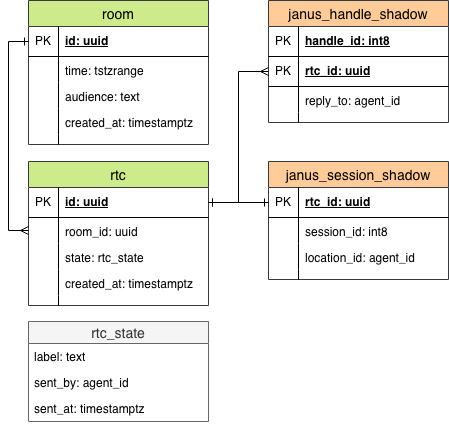
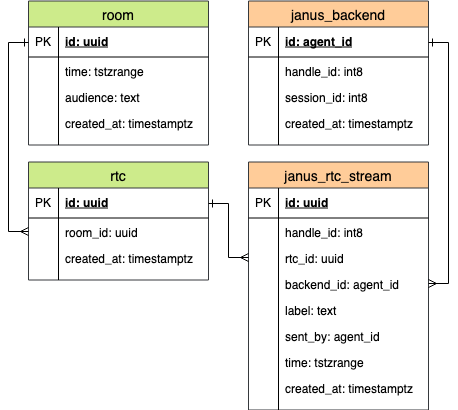
Update schema. Add rtc.connect.

Changed region(s): [[0.0, 0.0, 1.0, 1.0], [0.4989, 0.6146, 0.5612, 0.6439], [0.4365, 0.9659, 0.4677, 0.9951]]

diff --git a/docs/src/api.rtc_signal.create.md b/docs/src/api.rtc_signal.create.md
@@ -2,8 +2,6 @@
 
 Create a signaling message: WebRTC offer or ice candidate.
 
-*NOTE: It is required that agent call **rtc.create** or **rtc.read** method before sending any signal messages.*
-
 *NOTE: All media segments of the **listener**'s sdp composing an **offer** must contain a **recvonly** attribute, when at least one media segment of the **publisher**'s sdp must contain a **sendonly** or a **sendrecv** attribute.*
 
 **Request**
@@ -32,8 +30,8 @@ correlation_data | string | _required_ | The same value will be in a response
 
 Name              | Type   | Default    | Description
 ----------------- | ------ | ---------- | ------------------
-rtc_id            | string | _required_ | A real-time connection identifier through message has to be sent
-jsep              | object | _required_ | **Offer** or or **ice candidate** generated by RTCPeerConnection
+handle_id         | string | _required_ | A real-time connection handle identifier
+jsep              | object | _required_ | **Offer** or **ice candidate** generated by RTCPeerConnection
 label             | string | _optional_ | Required only for **offers** with **sendonly** or **sendrecv** attribute.
 
 **Response**

diff --git a/docs/src/api.rtc.connect.md b/docs/src/api.rtc.connect.md
@@ -1,6 +1,8 @@
-# Read
+# Connect
 
-Read the real-time connection.
+Connect to the real-time connection to send signal messages and media.
+
+*NOTE: If Janus Gateway is used as a backend, a handle to the conference plugin for the patricular agent will be created.*
 
 **Request**
 
@@ -20,7 +22,7 @@ APP_NAME | string | _required_ | Name of the application
 Name             | Type   | Default    | Description
 ---------------- | ------ | ---------- | ------------------
 type             | string | _required_ | Always `request`
-method           | string | _required_ | Always `rtc.read`
+method           | string | _required_ | Always `rtc.connect`
 response_topic   | string | _required_ | Always `agents/${ME}/api/v1/in/${APP_NAME}`
 correlation_data | string | _required_ | The same value will be in a response
 
@@ -32,4 +34,4 @@ id         | string | _required_ | Real-time connection identifier
 
 **Response**
 
-If successful, the response payload contains the **Real-Time Connection** instance.
+If successful, the response payload contains a **Real-Time Connection Handle Identifier**.

diff --git a/docs/src/api.room.create.md b/docs/src/api.room.create.md
@@ -26,10 +26,10 @@ correlation_data | string | _required_ | The same value will be in a response
 
 **Payload**
 
-Name     | Type                             | Default    | Description
--------- | -------------------------------- | ---------- | ------------------
-time     | Array of 2 Unix timestamps (UTC) | _required_ | An interval when Room is 'open' for certain operations.
-audience | string                           | _required_ | Room's audience.
+Name     | Type       | Default    | Description
+-------- | ---------- | ---------- | ------------------
+time     | [int, int] | _required_ | Unix-time interval when the room is available.
+audience | string     | _required_ | Room's audience.
 
 **Response**
 

diff --git a/docs/src/api.room.update.md b/docs/src/api.room.update.md
@@ -26,10 +26,10 @@ correlation_data | string | _required_ | The same value will be in a response
 
 **Payload**
 
-Name     | Type                             | Default    | Description
--------- | -------------------------------- | ---------- | ------------------
-time     | Array of 2 Unix timestamps (UTC) | _optional_ | An interval when Room is 'open' for certain operations.
-audience | string                           | _optional_ | Room's audience.
+Name     | Type       | Default    | Description
+-------- | ---------- | ---------- | ------------------
+time     | [int, int] | _optional_ | Unix-time interval when the room is available.
+audience | string     | _optional_ | Room's audience.
 
 **Response**
 

diff --git a/docs/src/SUMMARY.md b/docs/src/SUMMARY.md
@@ -8,9 +8,10 @@
         - [Read](api.room.read.md)
         - [Update](api.room.update.md)
         - [Delete](api.room.delete.md)
-    - [Real-Time Connection](api.rtc.md)
+    - [RTC](api.rtc.md)
+        - [Connect](api.rtc.connect.md)
         - [Create](api.rtc.create.md)
         - [Read](api.rtc.read.md)
         - [List](api.rtc.list.md)
-    - [Signal](api.signal.md)
-        - [Create](api.signal.create.md)
+    - [RTC Signal](api.rtc_signal.md)
+        - [Create](api.rtc_signal.create.md)

diff --git a/docs/src/api.rtc.create.md b/docs/src/api.rtc.create.md
@@ -1,8 +1,6 @@
 # Create
 
-Create a real-time connection to send signal messages and then media.
-
-*NOTE: If Janus Gateway is used as a backend, a handle to the conference plugin for the patricular agent and a session will be created when necessary.*
+Create a real-time connection.
 
 **Request**
 

diff --git a/docs/src/api.room.delete.md b/docs/src/api.room.delete.md
@@ -28,7 +28,7 @@ correlation_data | string | _required_ | The same value will be in a response
 
 Name   | Type | Default    | Description
 ------ | ---- | ---------- | ------------------
-id     | UUID | _required_ | Room Id
+id     | uuid | _required_ | Room Id
 
 **Response**
 

diff --git a/docs/src/api.rtc_signal.md b/docs/src/api.rtc_signal.md
@@ -1,0 +1,1 @@
+# Real-Time Connection Signal
